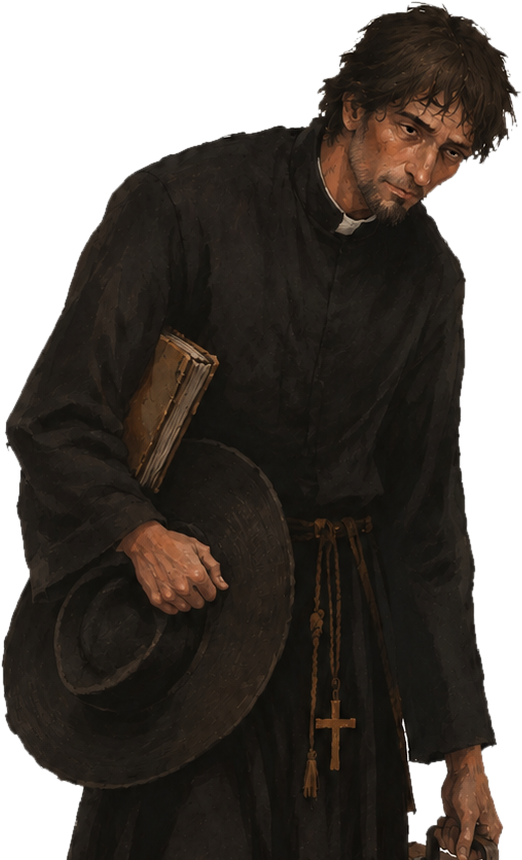
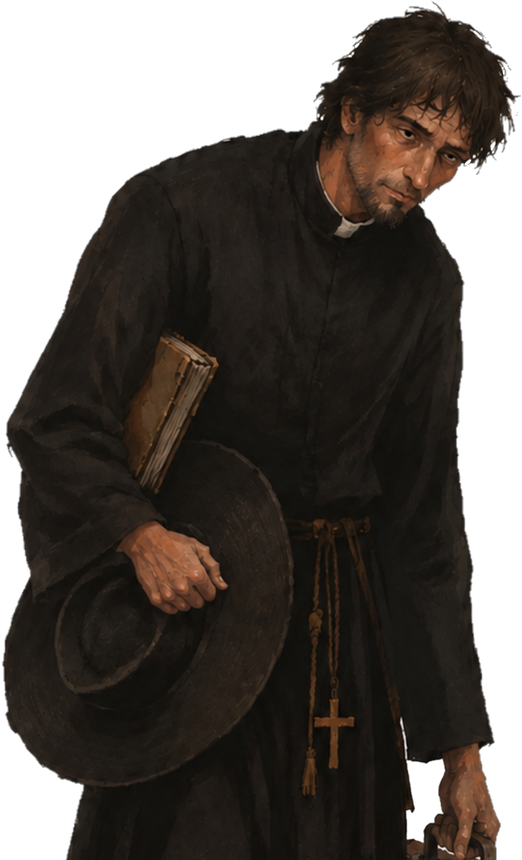
Retratos a partir das artes transparentes e limpeza da borda da Yara
- Arte/personagens_png/: versões com fundo transparente de sete pessoas
- Conversor: usa essas artes (Potira e Pajé seguem de Arte/PP/), mantém o
  recorte de fora feito pelo grupo e ainda tira o branco preso entre braço
  e corpo, os fios brancos meio transparentes e o quase-branco da borda
- Yara: borda do cabelo descascada (tira só pixels claros e sem cor
  encostados no transparente)

diff --git a/Jogo/ferramentas/converter_arte.py b/Jogo/ferramentas/converter_arte.py
@@ -48,23 +48,41 @@ DISTANCIA_BRANCO_PRESO = 24
 LIMIAR_BRANCO_CERCADO = 240
 AREA_MINIMA_BRANCO_CERCADO = 1500   # pixels da arte original
 
+# Arte que já vem transparente: o fundo é conhecido, então a limpeza perto da borda pode ser
+# mais firme. A ferramenta que tira o fundo costuma deixar fios meio transparentes porém
+# BRANCOS em volta do cabelo; esses somem, assim como o quase-branco colado na borda.
+LIMIAR_BRANCO_PRESO_TRANSPARENTE = 215
+DISTANCIA_BRANCO_PRESO_TRANSPARENTE = 10
+LIMIAR_BRANCO_CERCADO_TRANSPARENTE = 228
+LIMIAR_FIO_BRANCO = 190   # pixel meio transparente com o canal mais escuro acima disto: some
+AREA_MINIMA_BRANCO_CERCADO_TRANSPARENTE = 600
+
+# "Descascar" a borda (só para quem tem True no fim da linha em PERSONAGENS): tira, camada
+# por camada, os pixels CLAROS e ACINZENTADOS encostados no transparente (fios brancos que
+# sobram no cabelo). Cabelo escuro, pele e roupa bege (que têm cor) não saem.
+CAMADAS_DESCASCAR = 6
+CLARO_DESCASCAR = 140        # canal mais escuro acima disto = claro
+NEUTRO_DESCASCAR = 30        # diferença entre o canal mais claro e o mais escuro abaixo disto = sem cor
+
 # Lista de personagens: (original dentro de Arte/, destino dentro de assets/, giro, meio da coxa).
-# As artes vêm da pasta Arte/PP/.
+# As artes vêm de Arte/personagens_png/personagens_em_png/ (com fundo transparente). Potira e
+# Pajé ainda não têm versão transparente: vêm de Arte/PP/ (fundo branco).
 # - giro: as artes vieram deitadas, com a cabeça para a direita; 90 gira no
 #   sentido anti-horário e deixa a pessoa de pé. Use 0 se a arte já estiver de pé.
 # - meio da coxa: a altura (em pixels da arte JÁ DE PÉ, contando de cima) onde fica o meio
 #   das coxas. O topo da cabeça é achado sozinho. Se a arte acaba antes do meio da coxa
 #   (Mbaé, Tamandaré-mirim e Iandé foram desenhados só até a cintura ou o quadril), coloque
 #   onde a coxa estaria: o pedaço que falta fica transparente, escondido atrás da caixa de fala.
+PNG = "personagens_png/personagens_em_png/"
 PERSONAGENS = [
-    ("PP/Yara.png", "personagens/yara.png", 90, 830),
-    ("PP/Mbaé.png", "personagens/mbae.png", 90, 1020),
+    (PNG + "Yara.png", "personagens/yara.png", 90, 1675, True),
+    (PNG + "Mbaé.png", "personagens/mbae.png", 90, 1920),
     ("PP/Potira.png", "personagens/potira.png", 90, 1040),
-    ("PP/Tama.png", "personagens/tamandare.png", 90, 965),
-    ("PP/Iandé.png", "personagens/iande.png", 90, 880),
-    ("PP/Krenan.png", "personagens/krenan.png", 90, 950),
-    ("PP/Araci.png", "personagens/araci.png", 90, 960),
-    ("PP/Irmão Aleixo.png", "personagens/aleixo.png", 0, 920),
+    (PNG + "Tama.png", "personagens/tamandare.png", 90, 1950),
+    (PNG + "Iandé.png", "personagens/iande.png", 90, 1785),
+    (PNG + "Krenan.png", "personagens/krenan.png", 90, 1590),
+    (PNG + "Araci.png", "personagens/araci.png", 90, 1550),
+    (PNG + "Irmão Aleixo.png", "personagens/aleixo.png", 0, 1520),
     # O pajé já veio de pé. O topo é o do cocar de penas, então a cabeça fica um pouco menor.
     ("PP/Pajé.png", "personagens/paje.png", 0, 920),
 ]
@@ -101,7 +119,8 @@ def converter_cenario(origem, destino):
     print("  ok  %-22s -> %-36s %4d KB" % (origem, destino, tamanho_kb))
 
 
-def tirar_fundo_branco(imagem):
+def tirar_fundo_branco(imagem, limiar_preso=LIMIAR_BRANCO_PRESO, distancia=DISTANCIA_BRANCO_PRESO,
+                       limiar_cercado=LIMIAR_BRANCO_CERCADO, area_cercado=AREA_MINIMA_BRANCO_CERCADO):
     """Deixa transparente o branco que encosta na borda da imagem (o fundo).
 
     Só some o branco ligado à borda: o branco da pintura do corpo, dos olhos e
@@ -120,11 +139,11 @@ def tirar_fundo_branco(imagem):
     fundo = claro.point(lambda v: 255 if v == 128 else 0)
     # Branco preso perto da borda (entre fios de cabelo): também vira fundo.
     perto_do_fundo = fundo
-    for _ in range(DISTANCIA_BRANCO_PRESO // 2):
+    for _ in range(distancia // 2):
         perto_do_fundo = perto_do_fundo.filter(ImageFilter.MaxFilter(5))
-    bem_branco = mais_escuro.point(lambda v: 255 if v >= LIMIAR_BRANCO_PRESO else 0)
+    bem_branco = mais_escuro.point(lambda v: 255 if v >= limiar_preso else 0)
     fundo = ImageChops.lighter(fundo, ImageChops.multiply(perto_do_fundo, bem_branco))
-    fundo = _juntar_brancos_grandes(fundo, mais_escuro)
+    fundo = _juntar_brancos_grandes(fundo, mais_escuro, limiar_cercado, area_cercado)
     alfa = ImageChops.invert(fundo)
     # Come 1 pixel da borda (tira o contorno claro) e suaviza o recorte.
     alfa = alfa.filter(ImageFilter.MinFilter(3)).filter(ImageFilter.GaussianBlur(0.8))
@@ -132,9 +151,10 @@ def tirar_fundo_branco(imagem):
     return imagem
 
 
-def _juntar_brancos_grandes(fundo, mais_escuro):
+def _juntar_brancos_grandes(fundo, mais_escuro, limiar_cercado=LIMIAR_BRANCO_CERCADO,
+                            area_minima=AREA_MINIMA_BRANCO_CERCADO):
     """Marca como fundo as manchas brancas grandes que o balde de tinta da borda não alcançou."""
-    branco = mais_escuro.point(lambda v: 255 if v >= LIMIAR_BRANCO_CERCADO else 0)
+    branco = mais_escuro.point(lambda v: 255 if v >= limiar_cercado else 0)
     # Só o branco que ainda não é fundo.
     marcas = ImageChops.subtract(branco, fundo)       # 255 = branco cercado ainda não visto
     largura, altura = marcas.size
@@ -146,14 +166,31 @@ def _juntar_brancos_grandes(fundo, mais_escuro):
             ImageDraw.floodfill(marcas, (x, y), 100)  # pinta a mancha toda com 100
             area = marcas.histogram()[100]
             # Mancha grande vira 50 (sai); pequena vira 200 (fica).
-            novo = 50 if area >= AREA_MINIMA_BRANCO_CERCADO else 200
+            novo = 50 if area >= area_minima else 200
             marcas = marcas.point(lambda v, novo=novo: novo if v == 100 else v)
             pixels = marcas.load()
     grandes = marcas.point(lambda v: 255 if v == 50 else 0)
     return ImageChops.lighter(fundo, grandes)
 
 
-def converter_personagem(origem, destino, giro, meio_da_coxa):
+def descascar_borda(imagem):
+    """Tira os fios claros e sem cor da borda, uma camada de pixels por vez."""
+    r, g, b, alfa = imagem.split()
+    mais_escuro = ImageChops.darker(ImageChops.darker(r, g), b)
+    mais_claro = ImageChops.lighter(ImageChops.lighter(r, g), b)
+    claro = mais_escuro.point(lambda v: 255 if v >= CLARO_DESCASCAR else 0)
+    neutro = ImageChops.subtract(mais_claro, mais_escuro).point(lambda v: 255 if v <= NEUTRO_DESCASCAR else 0)
+    fio = ImageChops.multiply(claro, neutro)
+    for _ in range(CAMADAS_DESCASCAR):
+        vazio = alfa.point(lambda a: 255 if a < 20 else 0)
+        borda = vazio.filter(ImageFilter.MaxFilter(3))          # encosta no transparente
+        tirar = ImageChops.multiply(borda, fio)
+        alfa = ImageChops.subtract(alfa, tirar)
+    imagem.putalpha(alfa)
+    return imagem
+
+
+def converter_personagem(origem, destino, giro, meio_da_coxa, descascar=False):
     caminho_origem = os.path.join(PASTA_ARTE, origem)
     caminho_destino = os.path.join(PASTA_ASSETS, destino)
     if not os.path.exists(caminho_origem):
@@ -161,13 +198,29 @@ def converter_personagem(origem, destino, giro, meio_da_coxa):
         return
     os.makedirs(os.path.dirname(caminho_destino), exist_ok=True)
     imagem = Image.open(caminho_origem).convert("RGBA")
-    # Arte que já vem com fundo transparente (PNG exportado sem a camada de fundo):
-    # o recorte de quem desenhou é usado como está, sem adivinhar o que é branco.
-    ja_transparente = imagem.getchannel("A").getextrema()[0] < 255
     if giro:
-        fundo_do_giro = (0, 0, 0, 0) if ja_transparente else (255, 255, 255, 255)
-        imagem = imagem.rotate(giro, expand=True, fillcolor=fundo_do_giro)
-    if not ja_transparente:
+        imagem = imagem.rotate(giro, expand=True, fillcolor=(0, 0, 0, 0))
+    if imagem.getchannel("A").getextrema()[0] < 255:
+        # Arte que já vem com fundo transparente: o recorte de fora feito por quem desenhou
+        # é mantido. Mas o branco PRESO (entre o braço e o corpo, entre o arco e o corpo) e
+        # o contorno branco que às vezes sobra no cabelo ainda saem, como na arte de fundo branco.
+        alfa_original = imagem.getchannel("A")
+        sobre_branco = Image.new("RGBA", imagem.size, (255, 255, 255, 255))
+        sobre_branco.alpha_composite(imagem)
+        alfa_limpo = tirar_fundo_branco(sobre_branco, LIMIAR_BRANCO_PRESO_TRANSPARENTE,
+                                        DISTANCIA_BRANCO_PRESO_TRANSPARENTE,
+                                        LIMIAR_BRANCO_CERCADO_TRANSPARENTE,
+                                        AREA_MINIMA_BRANCO_CERCADO_TRANSPARENTE).getchannel("A")
+        # Fios brancos meio transparentes (sobra da ferramenta que tirou o fundo).
+        r, g, b, _ = imagem.split()
+        claro = ImageChops.darker(ImageChops.darker(r, g), b).point(lambda v: 255 if v >= LIMIAR_FIO_BRANCO else 0)
+        meio_transparente = alfa_original.point(lambda a: 255 if 0 < a < 250 else 0)
+        fio_branco = ImageChops.multiply(claro, meio_transparente).filter(ImageFilter.MaxFilter(3))
+        alfa = ImageChops.darker(alfa_original, alfa_limpo)
+        imagem.putalpha(ImageChops.subtract(alfa, fio_branco))
+        if descascar:
+            imagem = descascar_borda(imagem)
+    else:
         imagem = tirar_fundo_branco(imagem)
     # Corte padrão: do topo da cabeça até o meio da coxa. Se a arte acabar antes,
     # crop() completa com transparente embaixo.
@@ -190,8 +243,8 @@ def main():
     for origem, destino in CENARIOS:
         converter_cenario(origem, destino)
     print("Convertendo personagens")
-    for origem, destino, giro, meio_da_coxa in PERSONAGENS:
-        converter_personagem(origem, destino, giro, meio_da_coxa)
+    for linha in PERSONAGENS:
+        converter_personagem(*linha)
     print("Pronto.")
 
 
